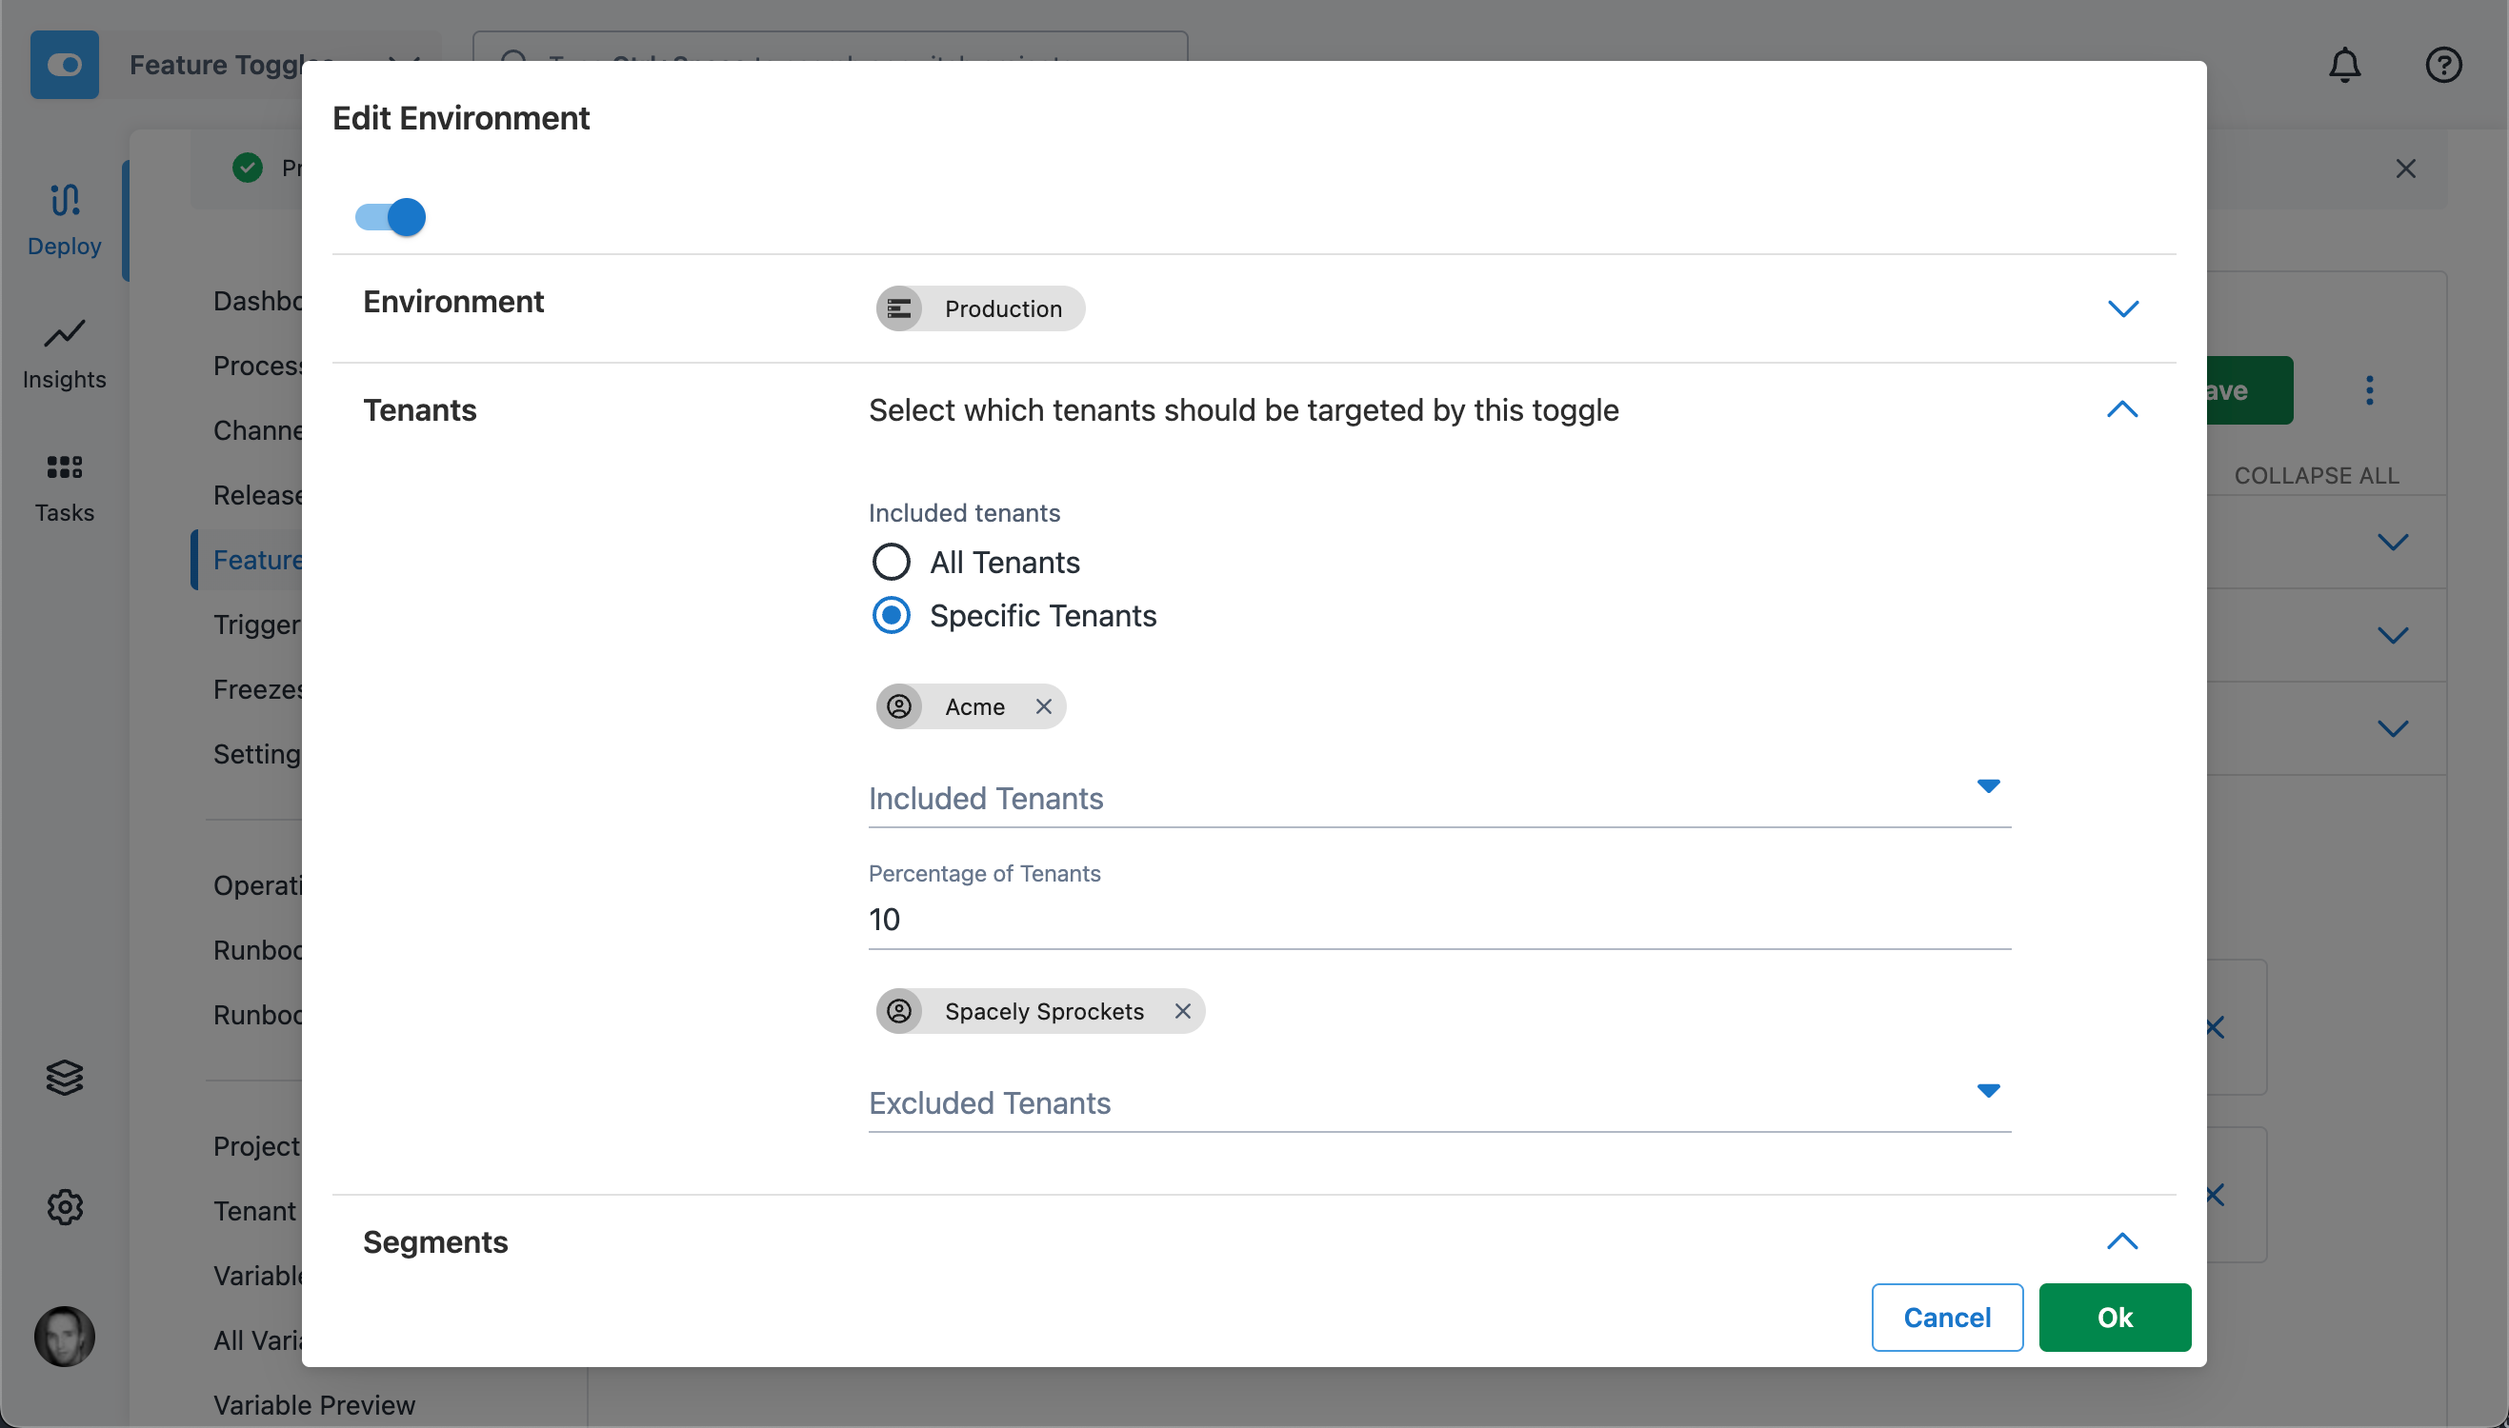
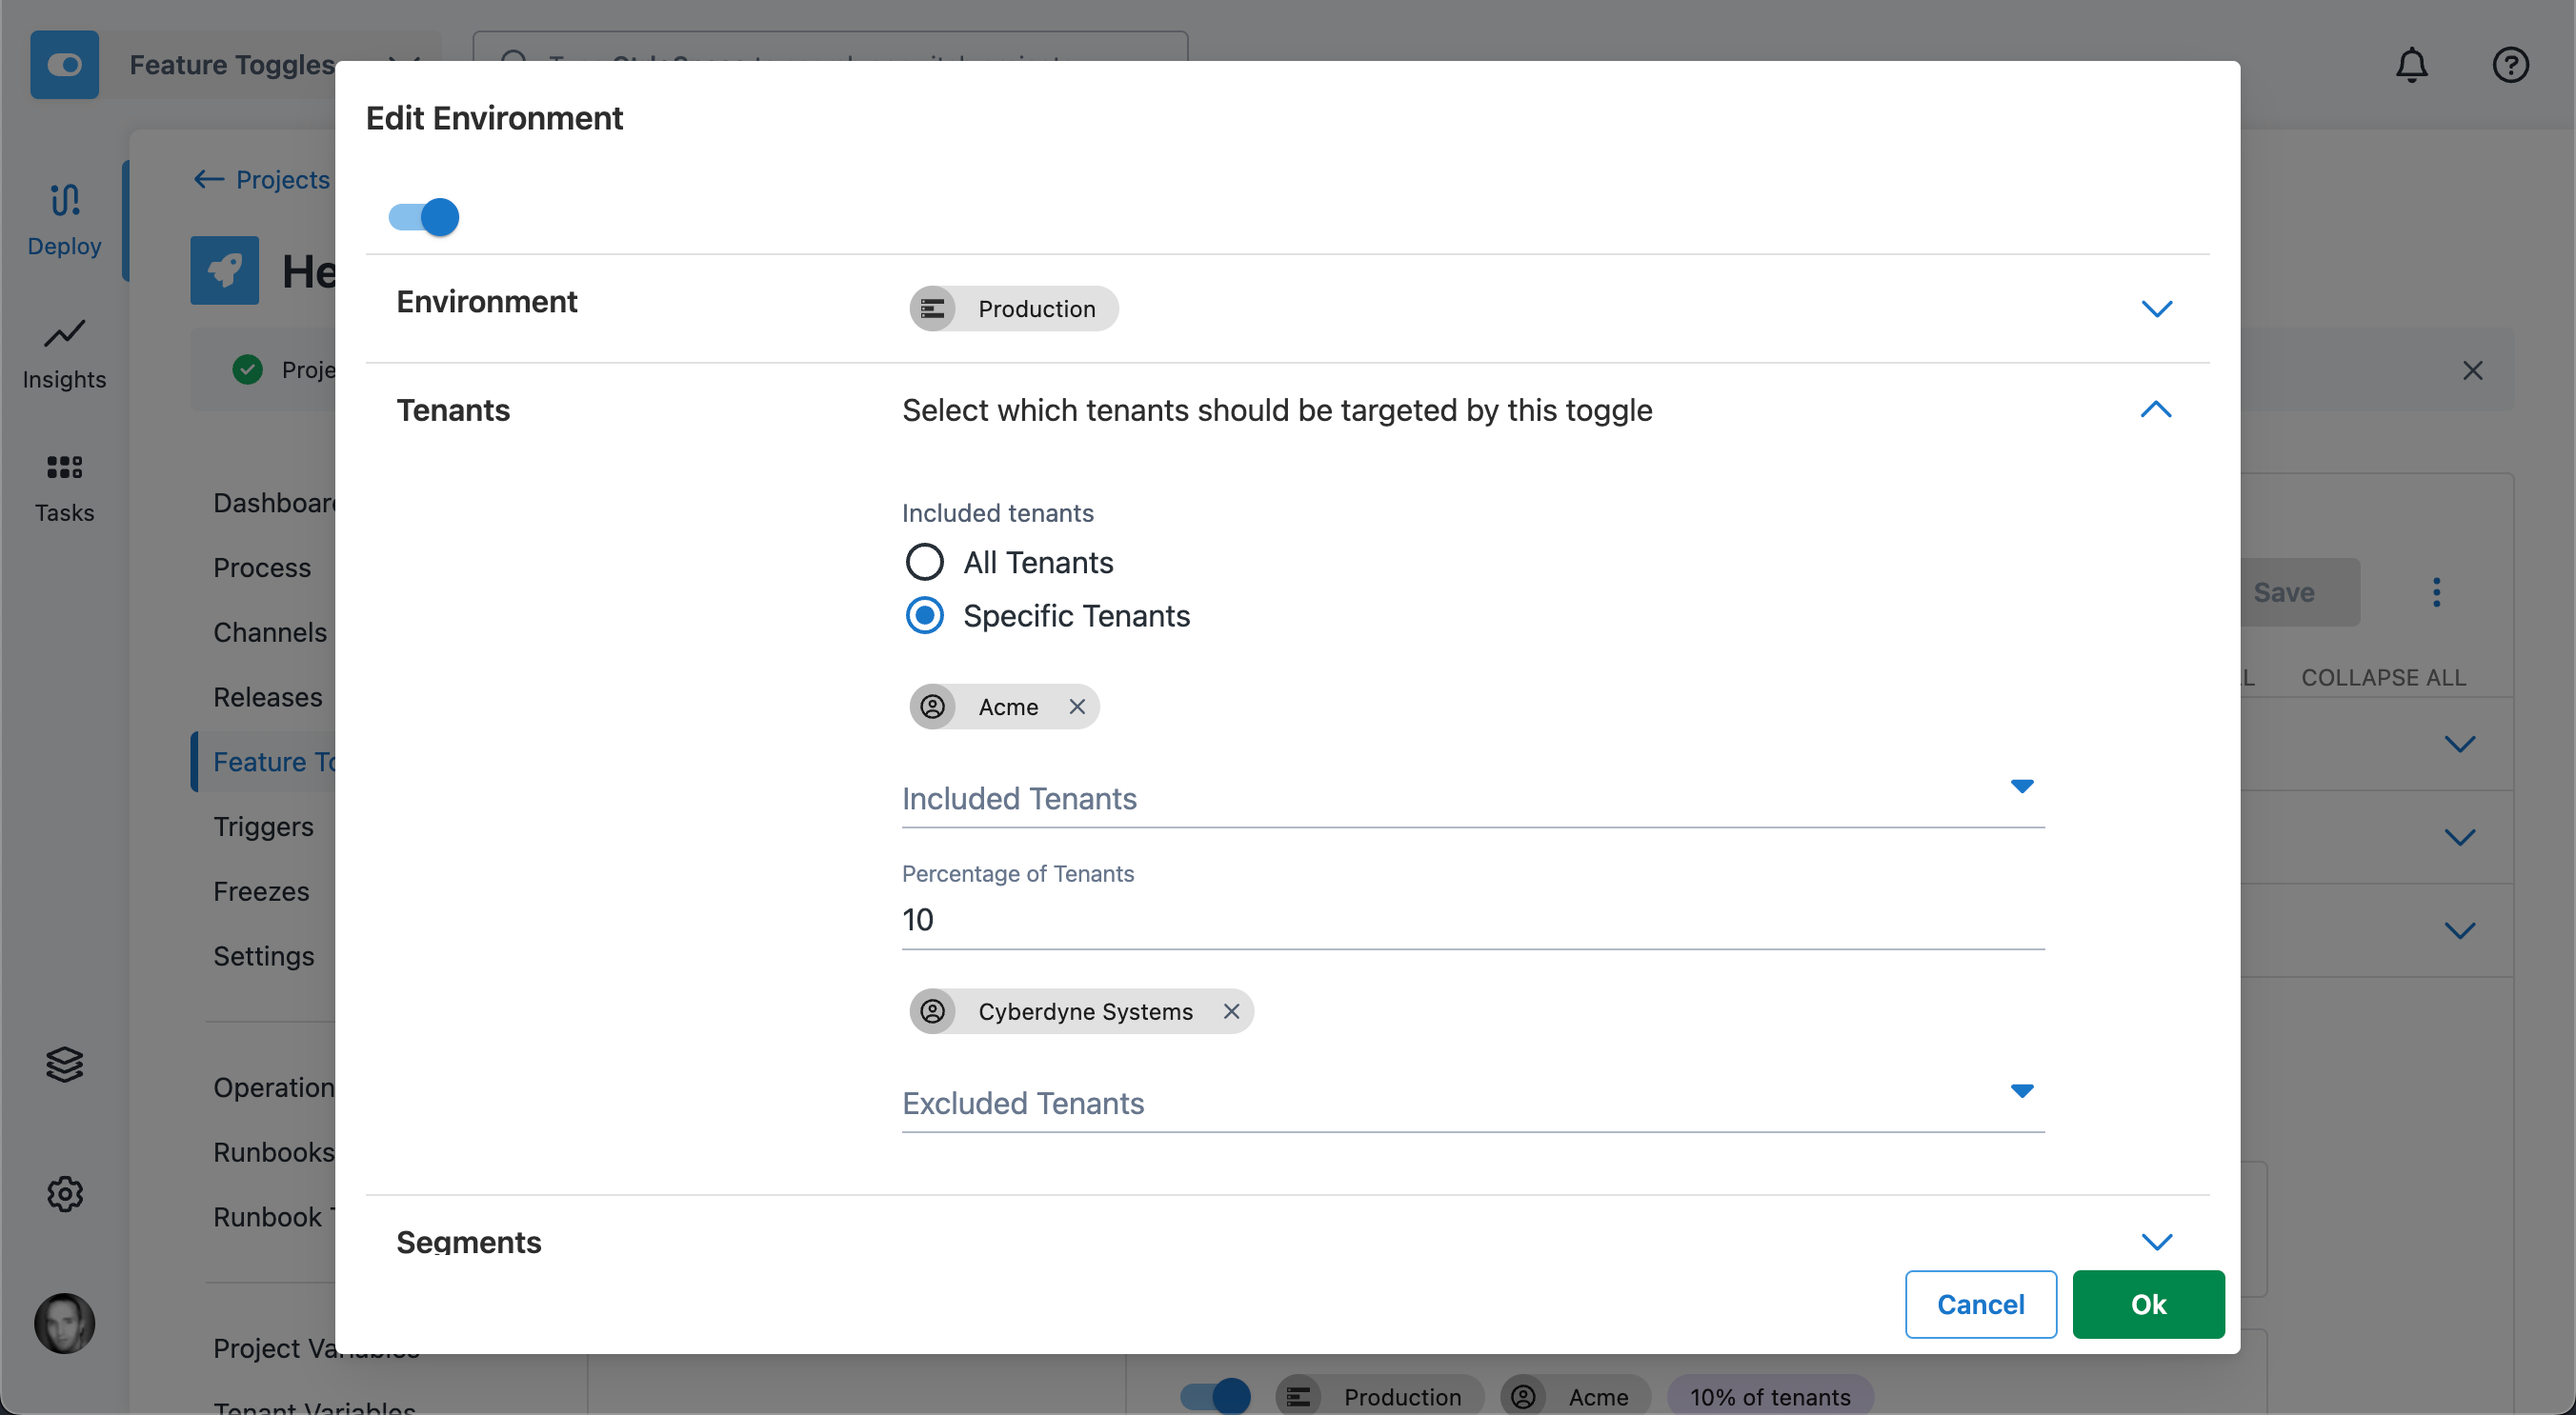
correcting spelling

diff --git a/src/pages/docs/feature-toggles/index.md b/src/pages/docs/feature-toggles/index.md
@@ -9,7 +9,7 @@ description: Octopus Feature Toggles allow progressive delivery of changes and i
 navOrder: 95 
 ---
 
-Octopus Feature Toggles support toggling features on or off in real-time, without reploying, and progressively releasing changes to subsets of your users.
+Octopus Feature Toggles support toggling features on or off in real-time, without redeploying, and progressively releasing changes to subsets of your users.
 
 :::div{.hint}
 Octopus Feature Toggles are currently in Alpha, available to a small set of customers. 
@@ -21,7 +21,7 @@ If you are interested in this feature please register your interest on the [road
 
 ### Create a Feature Toggle 
 
-Feature Toggles are located within Octopus Projects: {% raw %}{{ Project,Feature Toggles }}{% endraw %}
+Feature Toggles are located within Octopus Projects: {{ Project,Feature Toggles }}
 
 Create a new Toggle and give it name.
 
@@ -94,7 +94,7 @@ var darkModeEnabled = await featureClient.GetBooleanValueAsync("dark-mode", fals
 The second argument is the default value. Read more about [default values](/docs/feature-toggles/providers.md#default) below.
 
 ### Rollout 
-To enable your toggle for an environment, add the environment to the Toggle. {% raw %}{{ Project,Feature Toggles, Toggle }}{% endraw %} 
+To enable your toggle for an environment, add the environment to the Toggle. {{ Project,Feature Toggles, Toggle }}
 
 ![Add Environment button](add-environment-button.png "width=500")
 
@@ -153,8 +153,8 @@ Some examples:
 |-----------|--------------------|--------|
 | `user-id/123456`   | `user-id/123456` | `On` |
 | `user-id/123456`   | `user-id/789383` | `Off` |
-| `license-type/free` `region/apac` `region/eu`  | `license-type/free` `region/apac`  | `On` |
-| `license-type/free` `region/apac` `region/eu`  | `license-type/free` `region/us`  | `Off` |
+| `license-type/free` `region/Asia` `region/EU`  | `license-type/free` `region/Asia`  | `On` |
+| `license-type/free` `region/Asia` `region/EU`  | `license-type/free` `region/US`  | `Off` |
 
 ## Tenants {#tenants}
 
@@ -167,7 +167,7 @@ The options for configuring a Feature Toggle for Tenants are:
 - % of Tenants
 - Specific Tenants Excluded
 
-For example, the configuration shown below will result in the Toggle evaluating as `On` for 10% of Tenants, always including `Acme` and never including `Spacely Sprockets`. 
+For example, the configuration shown below will result in the Toggle evaluating as `On` for 10% of Tenants, always including `Acme` and never including `Cyberdyne Systems`. 
 
 ![Tenanted Rollout](tenant-rollout.png "width=500")
 
